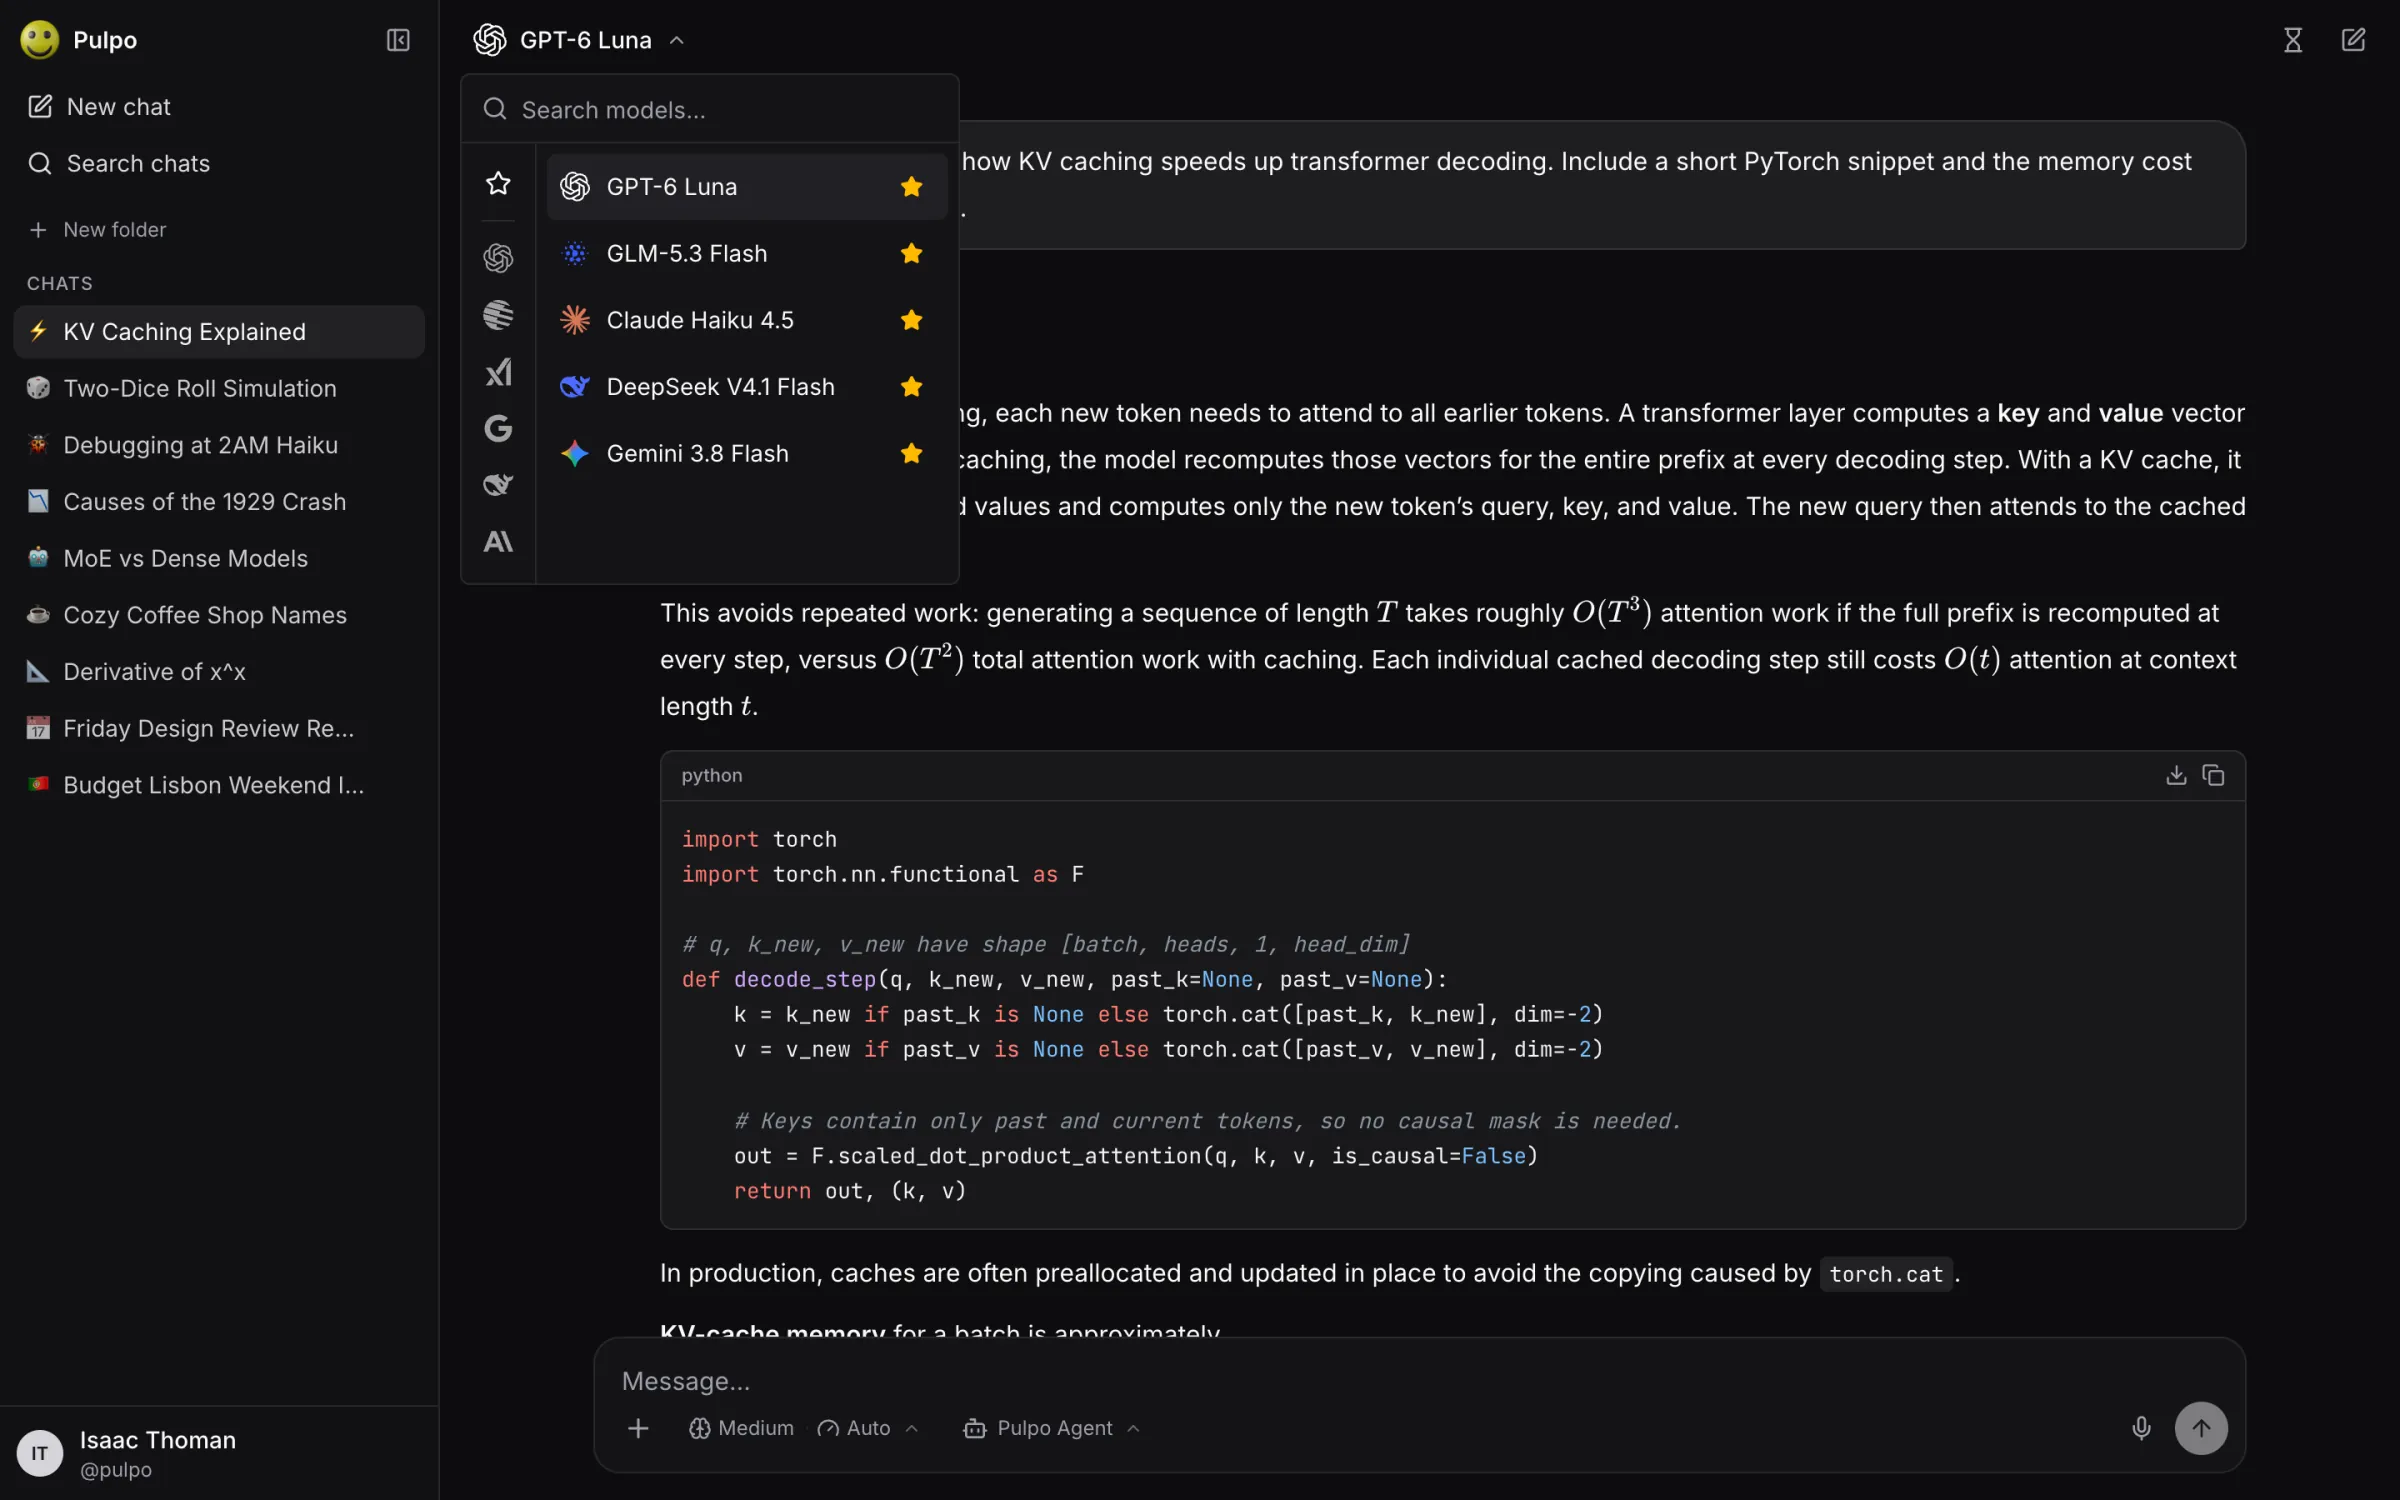
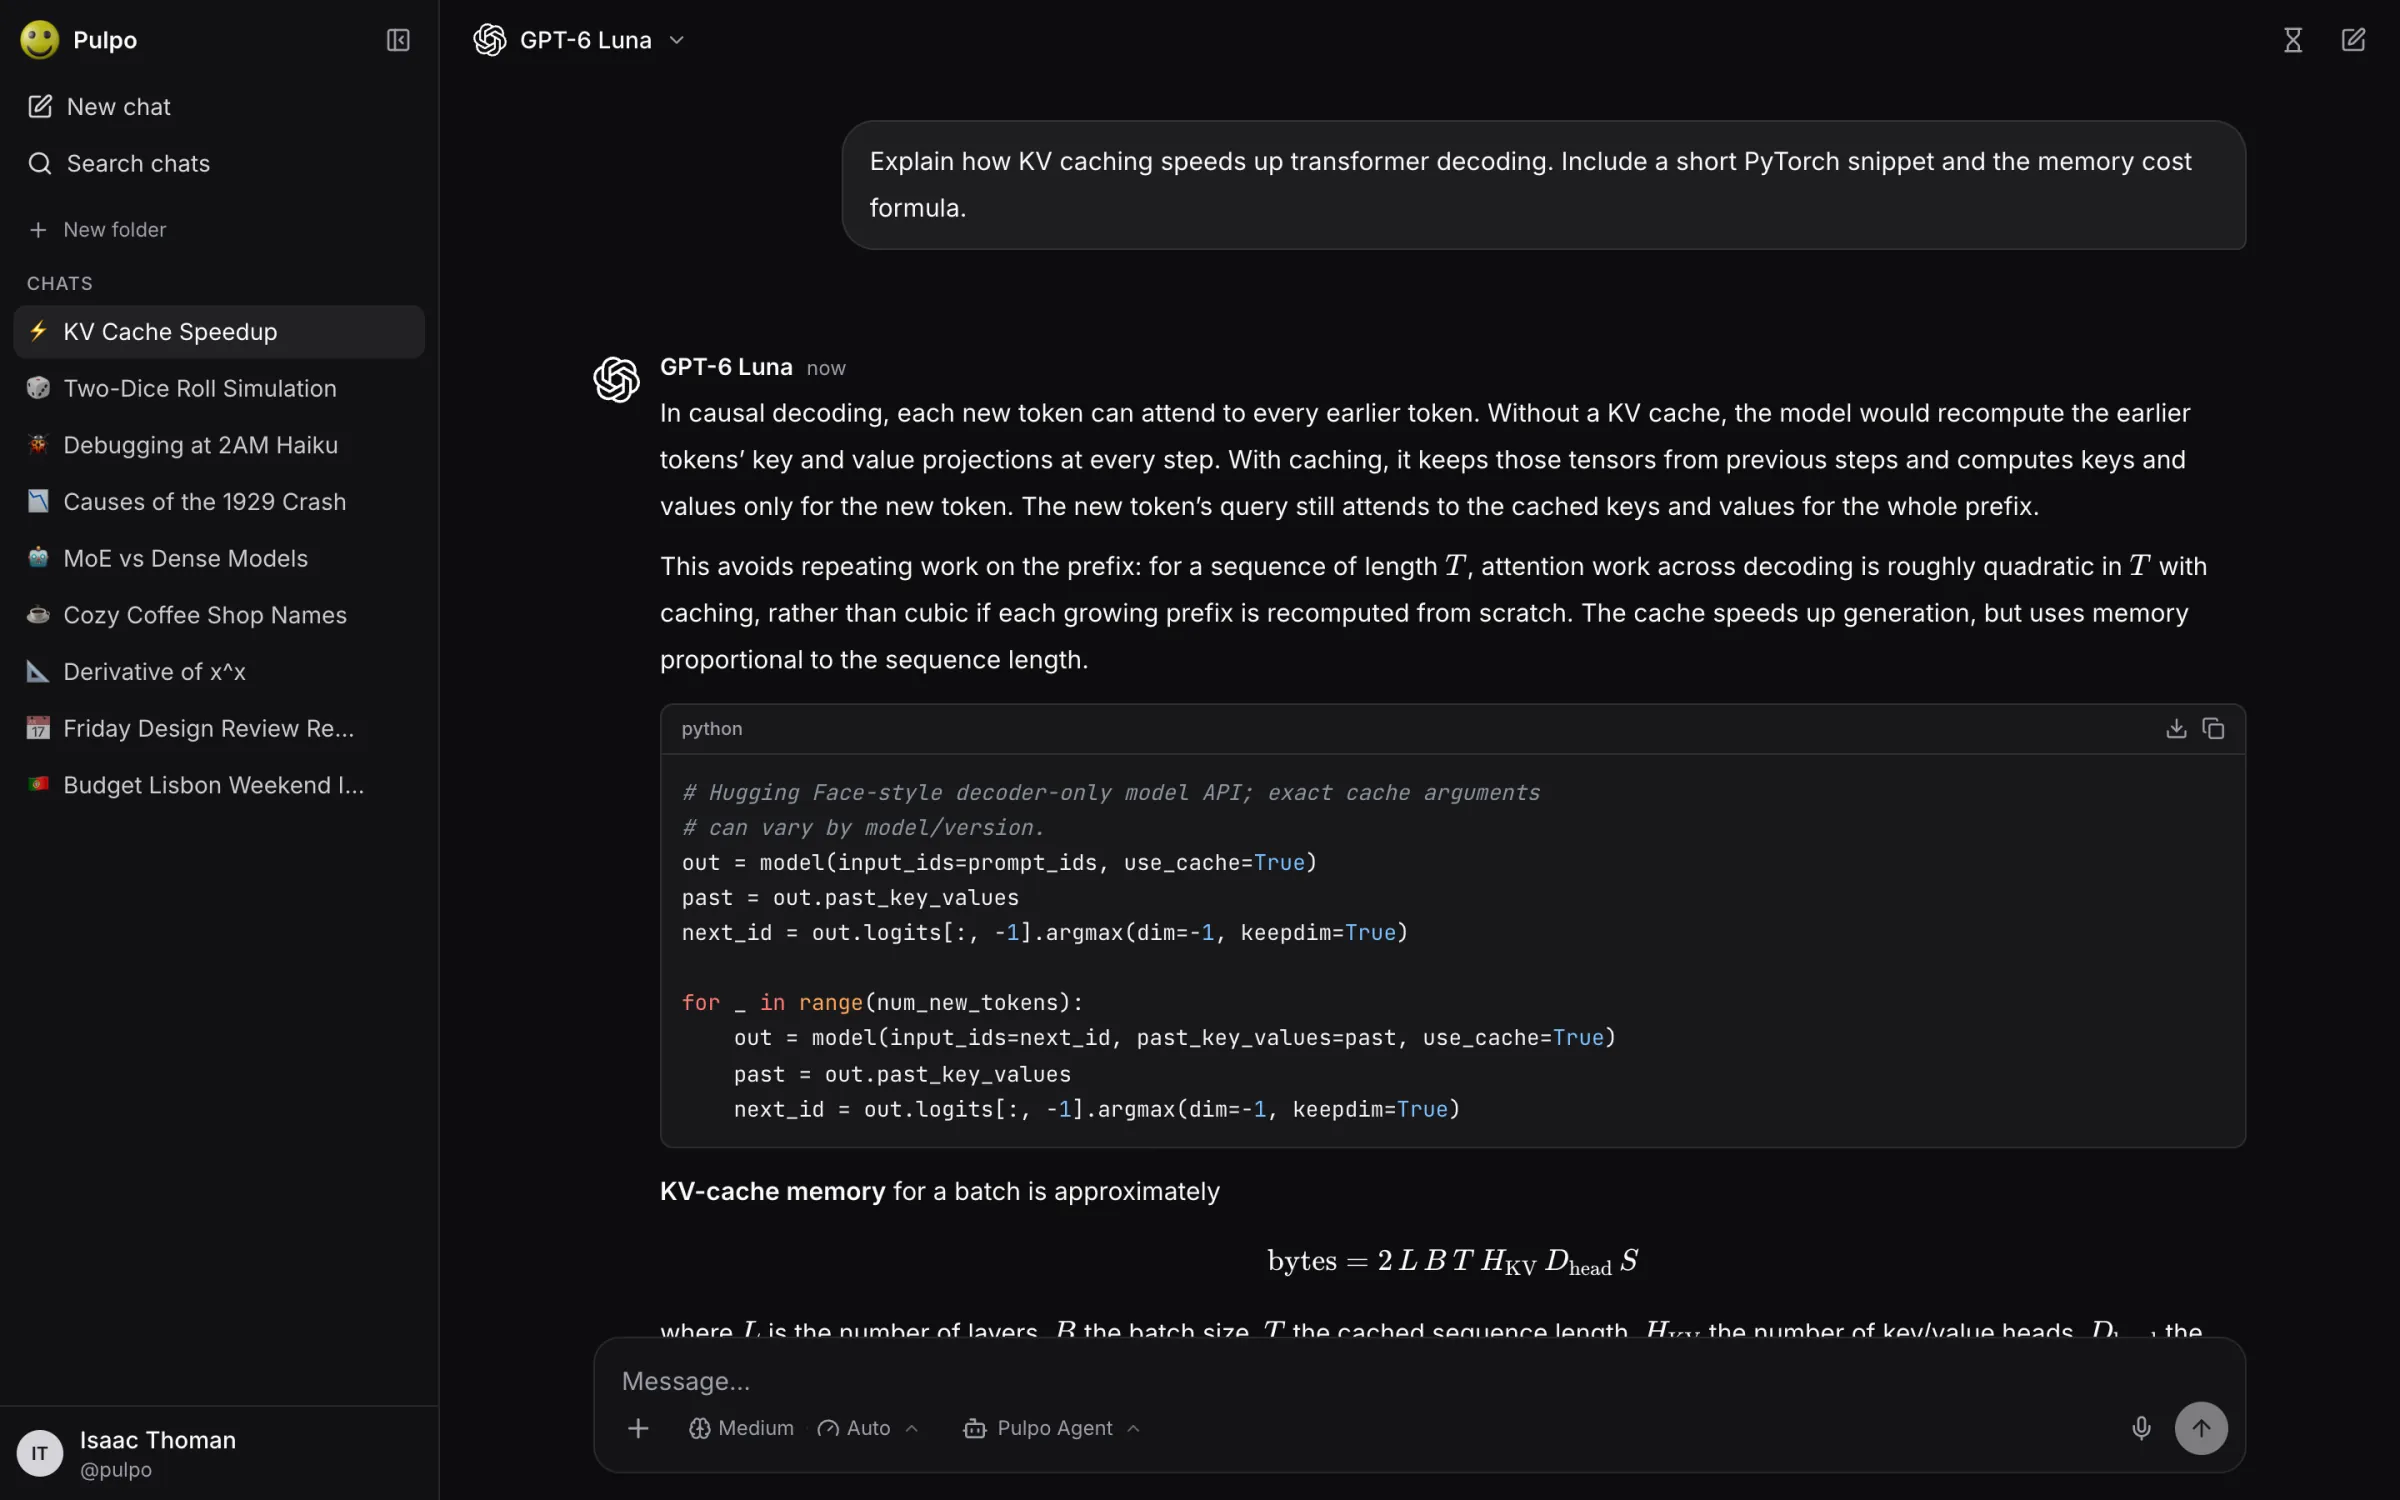
feat(web): recapture landing screenshot without the model picker

diff --git a/docs/landing-screenshots.md b/docs/landing-screenshots.md
@@ -12,7 +12,7 @@ The web landing page shown to signed-out visitors at `/` uses a screenshot of th
 
 Production has the full model catalog, so the screenshot matches what visitors get.
 
-1. Use the shared demo account on [pulpo.baby](https://pulpo.baby). It needs a presentable name and username, the model to feature set as its default, the models to preview marked as favorites, and enough balance for eight short prompts. Never capture a personal account: its chat titles appear in the sidebar.
+1. Use the shared demo account on [pulpo.baby](https://pulpo.baby). It needs a presentable name and username, the model to feature set as its default, and enough balance for eight short prompts. Never capture a personal account: its chat titles appear in the sidebar.
 2. To refresh only the hero chat, move the previous hero chat to the trash. To refresh the sidebar demo chats too, trash all of the account's chats. The script only creates sidebar chats when the account has none.
 3. Run the script. It targets production by default:
 
@@ -46,7 +46,7 @@ This needs no production account, but the local preview only has the preview pro
 - If the account has no chats, sends seven short prompts so the sidebar looks lived in.
 - Sends the hero prompt in a new chat, which uses the account's default model: "Explain how KV caching speeds up transformer decoding. Include a short PyTorch snippet and the memory cost formula." Its answer shows headings, display math, and a code block, and a fresh chat shows the "now" timestamp.
 - Turns off automatic expiry for that chat, so it stays in the account and its sidebar entry has no hourglass.
-- Opens that chat at 1440×900 with a device scale factor of 2, switches the composer's agent control to Pulpo Agent, scrolls to the start of the conversation, opens the model picker to preview the account's favorite models, and captures it once with a light and once with a dark color scheme.
+- Opens that chat at 1440×900 with a device scale factor of 2, switches the composer's agent control to Pulpo Agent, scrolls to the start of the conversation and captures it once with a light and once with a dark color scheme.
 - Converts each capture with `cwebp -q 80 -m 6 -resize 2400 0` into `apps/web/public/landing/`.
 - Saves the top 1440×756 of the dark capture as `apps/web/public/og-image.jpg`, the link-preview image referenced by `og:image` in `apps/web/index.html`.
 
